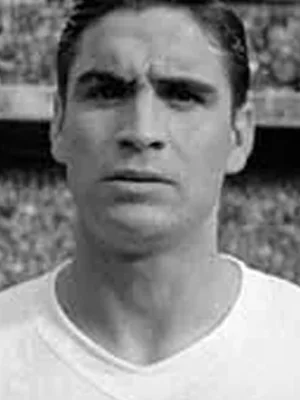
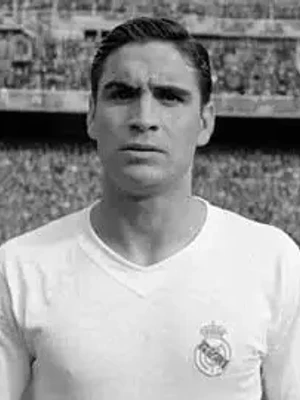
교정(대회관): 1956-57 베스트 11 마르키토스 사진을 선수 시절 베르나베우 사진으로 교체
- 원형 칸과 선수 카드 모두 머리와 어깨가 들어가도록 3:4로 여백을 두고 크롭

diff --git a/src/content/archive/1956-57-european-cup-tournament-best-xi.md b/src/content/archive/1956-57-european-cup-tournament-best-xi.md
@@ -130,4 +130,4 @@ draft: false
 <li id="source-10"><a href="https://en.wikipedia.org/wiki/Julinho_(footballer,_born_1929)">「Julinho」</a>, Wikipedia. 오른쪽 윙어로서의 역할, 1954년 월드컵, 1996년 피오렌티나 역대 최고 선수 선정.</li>
 <li id="source-11"><a href="https://www.uefa.com/news-media/news/01ee-0e76fea7895f-3c3039e41339-1000--goals-not-coal-for-kopa/">「Goals not coal for Kopa」</a>, UEFA. 레알에서 오른쪽에 선 코파의 회고.</li>
 <li id="source-12"><a href="https://en.wikipedia.org/wiki/Paco_Gento">「Paco Gento」</a>, Wikipedia. 라싱 산탄데르에서의 출발, 별명, 유러피언컵 여섯 차례 우승.</li>
-</ol><p class="record-note">1956-57 시즌에는 공식 대회 베스트 11 시상이 없었다. 열한 명은 삥이FC가 2026년 선정한 회고 명단이다. 출전 경기와 무실점은 UEFA 경기 데이터의 선발 명단과 경기 결과, 득점은 UEFA와 RSSSF가 일치하는 기록을 기준으로 하며 공식 도움 통계는 없어 기록표에 넣지 않았다. 역할어는 선수가 경기마다 단 등번호와 당시 구단의 번호 체계를 따랐고, 알프레도 디스테파노의 오른쪽 하프 배치만 등번호가 아닌 필자의 판단이다. 블라디미르 베아라 사진은 네덜란드 국가기록원 Anefo 소장본(CC0, 1953), 아르디코 마그니니 사진은 1955-56 피오렌티나 단체 사진, 토미 테일러·데니스 바이올렛·로저 번 사진은 1957년 《레코르드마가시네트》의 맨유 단체 사진, 줄리뉴 사진은 1954년 《에스타디오》 게재본으로 모두 Wikimedia Commons 소장본이다. 알프레도 디스테파노·레몽 코파·던컨 에드워즈 사진은 1957년 발롱도르 편, 마르키토스 사진은 레알 마드리드 역대 베스트 11 편의 이미지를 사용했다. 선수 카드의 구단 문장은 국적과 혼동되지 않도록 1956-57 유러피언컵 본편과 같은 시대의 구단 자산을 사용했다. 선수 사진은 인물 식별과 해설을 위한 대표 이미지이며, 구체적인 정정·권리 요청은 문의 페이지로 접수한다.</p></div>
+</ol><p class="record-note">1956-57 시즌에는 공식 대회 베스트 11 시상이 없었다. 열한 명은 삥이FC가 2026년 선정한 회고 명단이다. 출전 경기와 무실점은 UEFA 경기 데이터의 선발 명단과 경기 결과, 득점은 UEFA와 RSSSF가 일치하는 기록을 기준으로 하며 공식 도움 통계는 없어 기록표에 넣지 않았다. 역할어는 선수가 경기마다 단 등번호와 당시 구단의 번호 체계를 따랐고, 알프레도 디스테파노의 오른쪽 하프 배치만 등번호가 아닌 필자의 판단이다. 블라디미르 베아라 사진은 네덜란드 국가기록원 Anefo 소장본(CC0, 1953), 아르디코 마그니니 사진은 1955-56 피오렌티나 단체 사진, 토미 테일러·데니스 바이올렛·로저 번 사진은 1957년 《레코르드마가시네트》의 맨유 단체 사진, 줄리뉴 사진은 1954년 《에스타디오》 게재본으로 모두 Wikimedia Commons 소장본이다. 알프레도 디스테파노·레몽 코파·던컨 에드워즈 사진은 1957년 발롱도르 편, 선수 카드의 구단 문장은 국적과 혼동되지 않도록 1956-57 유러피언컵 본편과 같은 시대의 구단 자산을 사용했다. 선수 사진은 인물 식별과 해설을 위한 대표 이미지이며, 구체적인 정정·권리 요청은 문의 페이지로 접수한다.</p></div>

diff --git a/docs/editorial/1956-57-european-cup-best-xi-source-audit.md b/docs/editorial/1956-57-european-cup-best-xi-source-audit.md
@@ -34,5 +34,5 @@ UEFA `match.uefa.com/v5/matches?competitionId=1&seasonYear=1956&limit=100&offset
 - 마그니니·줄리뉴: Commons `AC Fiorentina Serie A 1955-56.jpg`(퍼블릭 도메인, 뒷줄 왼쪽 두 번째)·`Julinho, Estadio, 1954-06-26 (580).jpg`(퍼블릭 도메인).
 - 테일러·바이올렛: Commons `Tommy Taylor 1957 (cropped).jpg`·`Dennis Viollet 1957.jpg`(Eskil Malmberg, 퍼블릭 도메인). 번: 저장소의 같은 1957 맨유 단체 사진(`1956-57-european-cup/manchester-united-1957.webp`) 앞줄 왼쪽 네 번째에서 크롭.
 - 디스테파노·코파·에드워즈: 1957 발롱도르 편 운영자 제공 사진에서 얼굴 중심 크롭.
-- 마르키토스·헨토: 첫 발행은 마르키토스를 레알 문장 카드로, 헨토를 1971년 Anefo 초상으로 대체했으나 운영자 지적으로 `real-madrid-death-squad-best-xi/marquitos.png`·`paco-gento.png`(운영자 제작 선수 카드)의 선수 시절 사진에서 얼굴만 잘라 교체했다(카드의 문장·국기·이름 글자는 크롭 영역 밖). 다음 레알 선수는 먼저 이 축쿼드 자산을 찾는다. 헨토는 그 크롭이 너무 바짝 잘려 원형 칸에서 이마·턱이 잘린다는 운영자 지적으로, 운영자가 준 베르나베우 선수 시절 사진(바탕화면 `37433.jpg`, 270×270)을 머리 위·어깨가 들어가게 3:4로 잘라 다시 교체했다. 카드(142×184, 위 20%)와 원형(62px, 위 22%) 두 칸을 미리 그려 보고 올렸다.
+- 마르키토스·헨토: 첫 발행은 마르키토스를 레알 문장 카드로, 헨토를 1971년 Anefo 초상으로 대체했으나 운영자 지적으로 `real-madrid-death-squad-best-xi/marquitos.png`·`paco-gento.png`(운영자 제작 선수 카드)의 선수 시절 사진에서 얼굴만 잘라 교체했다(카드의 문장·국기·이름 글자는 크롭 영역 밖). 다음 레알 선수는 먼저 이 축쿼드 자산을 찾는다. 헨토는 그 크롭이 너무 바짝 잘려 원형 칸에서 이마·턱이 잘린다는 운영자 지적으로, 운영자가 준 베르나베우 선수 시절 사진(바탕화면 `37433.jpg`, 270×270)을 머리 위·어깨가 들어가게 3:4로 잘라 다시 교체했다. 카드(142×184, 위 20%)와 원형(62px, 위 22%) 두 칸을 미리 그려 보고 올렸다. 마르키토스도 같은 이유로 운영자가 준 베르나베우 사진(바탕화면 `real300408.webp`, 270×270)으로 같은 방식 교체했다. 두 사진 모두 공개 주석에는 출처를 따로 적지 않았다.
 - A/B 외부 위험 신호 없음. C등급, NO ACTION.
